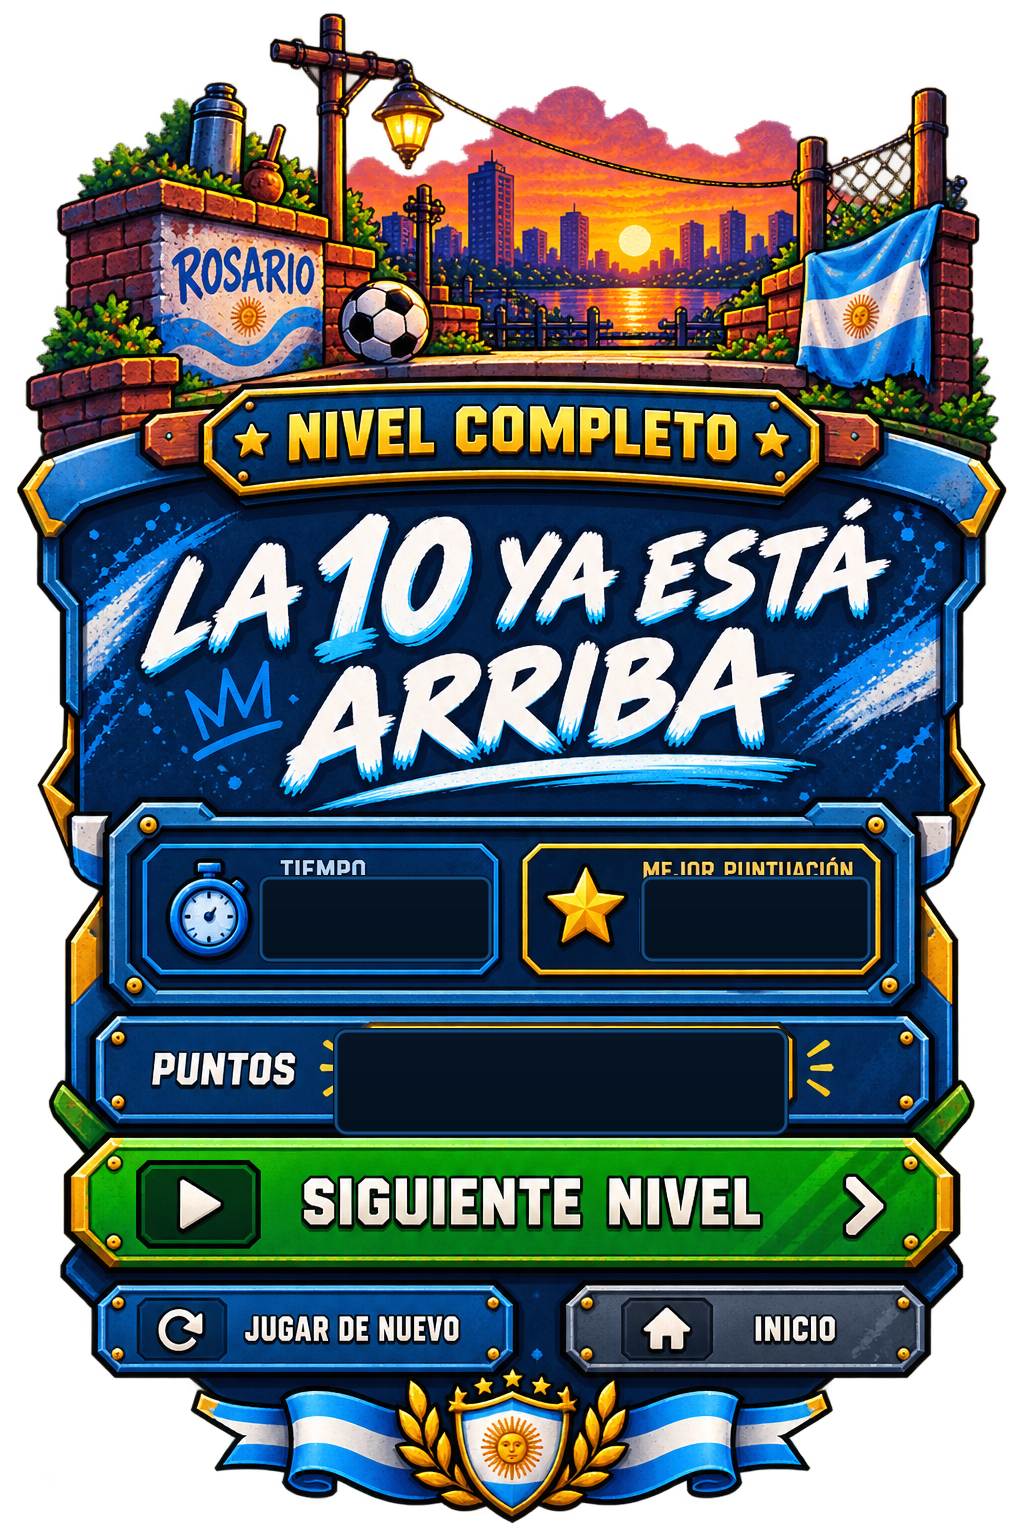
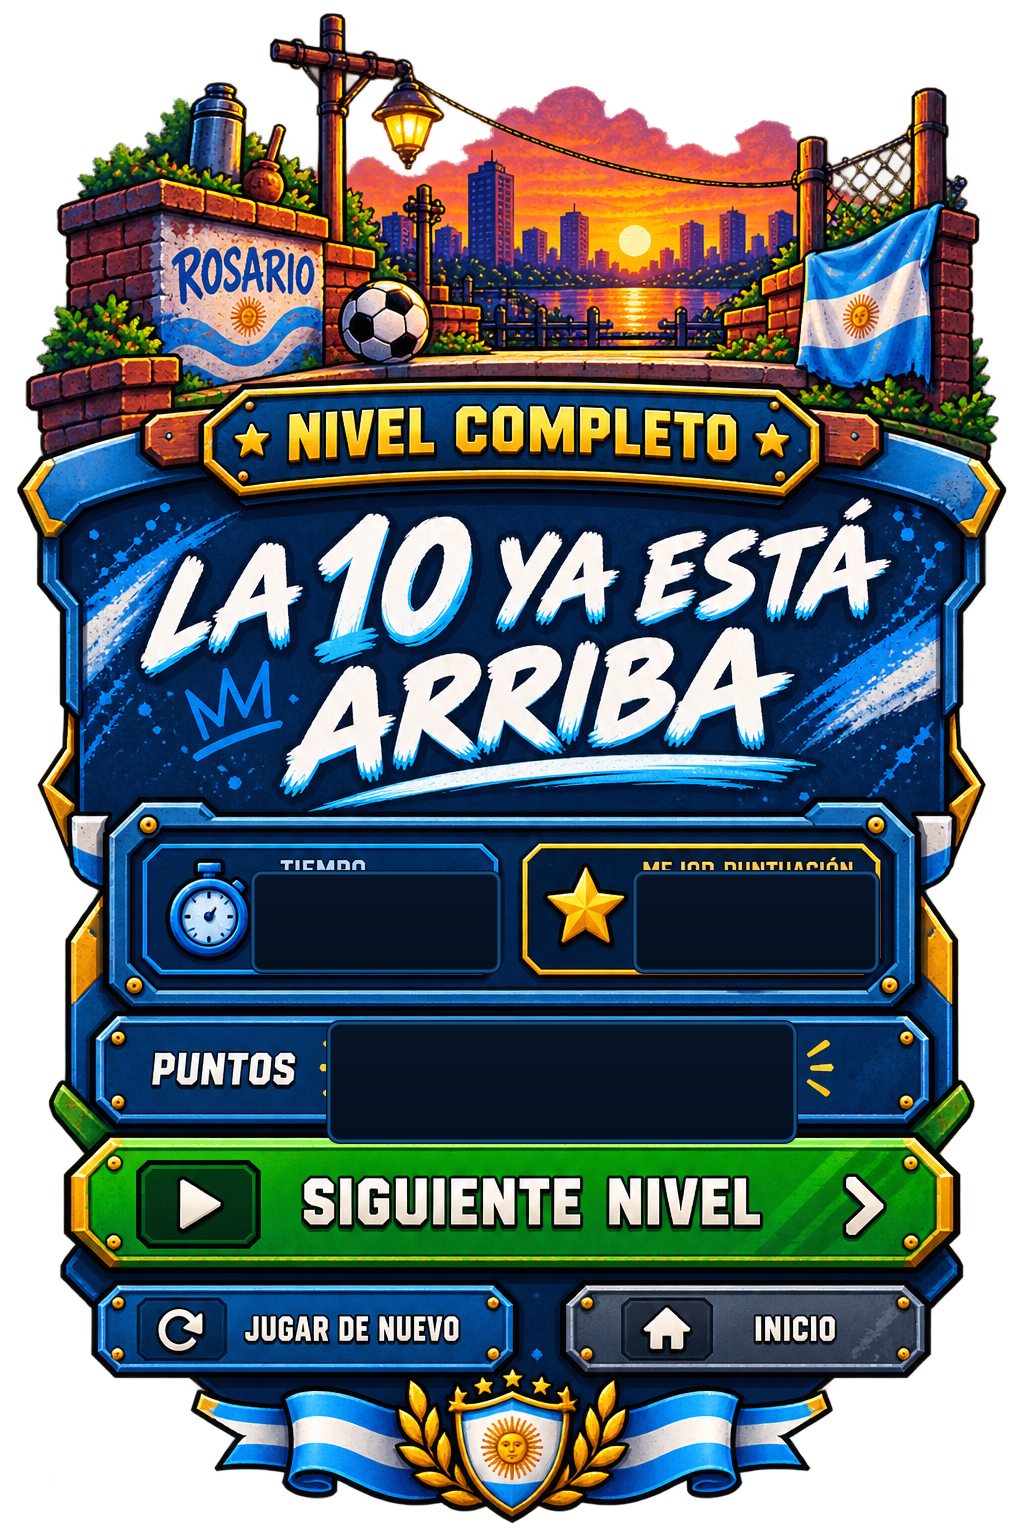
v3.4.7 fix bug

Changed region(s): [[0.2188, 0.5625, 0.875, 0.75]]

diff --git a/entities/Player.ts b/entities/Player.ts
@@ -49,10 +49,11 @@ export class Player {
 
   update(dt: number, input: InputSnapshot, platforms: Platform[], ladders: Ladder[], worldWidth: number) {
     const ladder = findUsableLadder(this.rect, ladders);
-    const canGrabLadder = this.grounded || this.state === "climb";
-    const wantsClimb = input.climb !== 0 && !input.jump && canGrabLadder && ladder;
+    const canJump = this.grounded || this.state === "climb";
+    const startsJump = input.jump && canJump;
+    const wantsClimb = input.climb !== 0 && Boolean(ladder) && !startsJump;
 
-    if (wantsClimb) {
+    if (wantsClimb && ladder) {
       this.state = "climb";
       this.vx = 0;
       this.vy = input.climb * CLIMB_SPEED;
@@ -73,7 +74,7 @@ export class Player {
       this.facing = input.move;
     }
 
-    if (input.jump && (this.grounded || this.state === "climb")) {
+    if (startsJump) {
       this.vy = -JUMP_SPEED;
       this.grounded = false;
       this.state = "jump";
@@ -116,7 +117,7 @@ export class Player {
   }
 
   canUseLadder(ladders: Ladder[]) {
-    return (this.grounded || this.state === "climb") && Boolean(findUsableLadder(this.rect, ladders));
+    return Boolean(findUsableLadder(this.rect, ladders));
   }
 
   draw(ctx: CanvasRenderingContext2D, isProtected = false, sprites?: SpriteManager, time = 0, spriteSheet = "messi") {

diff --git a/app/donkey-messi/page.tsx b/app/donkey-messi/page.tsx
@@ -200,7 +200,7 @@ export default function DonkeyMessiPage() {
             <div className={`coverShade ${showTraining || showLevelSelect ? "isTraining" : "isTitle"}`} />
             {!showTraining && !showLevelSelect ? (
               <div className="coverHotspots" aria-label="Menu principal">
-                <p className="buildStamp">Mobile v3.4.6</p>
+                <p className="buildStamp">Mobile v3.4.7</p>
                 <button className="coverHotspot coverHotspotPlay" type="button" onClick={openLevelSelect}>
                   <span className="srOnly">Seleccionar nivel</span>
                 </button>

diff --git a/ui/Victory.tsx b/ui/Victory.tsx
@@ -10,7 +10,12 @@ type VictoryProps = {
 };
 
 export function Victory({ snapshot, onRestart, onMenu, onNextLevel, canNextLevel }: VictoryProps) {
-  const imageSrc = snapshot.levelIndex === 0 ? "/assets/ui/final-level-0-clean.png" : "/assets/ui/final-level-1-clean.png";
+  const victoryImages = [
+    "/assets/ui/final-level-0-clean.png",
+    "/assets/ui/final-level-1-clean.png",
+    "/assets/ui/final-level-2-clean.png",
+  ];
+  const imageSrc = victoryImages[snapshot.levelIndex] ?? "/assets/ui/final-level-1-clean.png";
   const bestScore = Math.max(snapshot.highScore, snapshot.score);
 
   return (

diff --git a/game/Game.ts b/game/Game.ts
@@ -878,7 +878,7 @@ function platformSurfaceOffset(sheet: string, frame: number) {
     return 0;
   }
 
-  const offsets = [10, 8, 0, 9, 8, 0, 6, 0, 0];
+  const offsets = [18, 20, 3, 18, 16, 14, 19, 4, 4];
   return offsets[frame] ?? 0;
 }
 

diff --git a/README.md b/README.md
@@ -688,9 +688,25 @@ Estado: en desarrollo validado.
 - QA automatico con `npm run qa:v3.4.6`.
 - QA documentado en `docs/QA_V346.md`.
 
+### V3.4.7
+
+Estado: en desarrollo validado.
+
+- Recuperado el agarre de escalera en el aire:
+  - Messi puede saltar, cruzar una escalera y agarrarse con arriba/abajo.
+  - Los botones de subir/bajar vuelven a activarse al pasar por una escalera aunque Messi este airborne.
+  - El salto inicial sigue teniendo prioridad para que la escalera no robe el despegue.
+- Recalibradas las superficies visuales del Tutorial para alinear mejor los sprites decorativos con la hitbox.
+- Cartel de victoria del Nivel 2 agregado:
+  - Fuente: `public/assets/ui/final-level-2.png`.
+  - Runtime limpio: `public/assets/ui/final-level-2-clean.png`.
+- `Victory` elige cartel por indice de nivel y cae a Nivel 1 si falta un asset futuro.
+- QA automatico acotado con `npm run qa:v3.4.7`.
+- QA documentado en `docs/QA_V347.md`.
+
 ## Siguiente Paso
 
-Playtest manual de V3.4.6 en telefono real. Confirmar especialmente pinches, power-ups de invencibilidad, ritmo de pelotas y ajuste visual del Tutorial con las pruebas nuevas.
+Playtest manual de V3.4.7 en telefono real. Confirmar especialmente salto hacia escalera, agarre en aire y alineacion de Messi sobre plataformas del Tutorial.
 
 ## Roadmap
 

diff --git a/docs/ROADMAP_FASE_2_V3.md b/docs/ROADMAP_FASE_2_V3.md
@@ -368,6 +368,24 @@ Criterio de cierre:
 - No hay cuadrados visibles para pinches, escudo o companion.
 - El nivel queda listo para playtest y balance de dificultad.
 
+### V3.4.7 - Recuperacion De Escalera Aerea
+
+Objetivo: corregir el retroceso de jugabilidad donde Messi ya no podia enganchar escaleras durante un salto.
+
+Alcance:
+
+- Permitir que los controles de escalera aparezcan al cruzar una escalera en el aire.
+- Permitir agarre intencional con arriba/abajo durante el salto.
+- Mantener prioridad del salto al despegar para que la escalera no lo corte.
+- Recalibrar offsets de plataformas del Tutorial.
+- Agregar cartel de victoria del Nivel 2.
+
+Criterio de cierre:
+
+- Saltar hacia una escalera y agarrarse vuelve a sentirse como al inicio.
+- La escalera no actua como pared ni como iman involuntario.
+- Messi pisa visualmente las plataformas del Tutorial.
+
 ## V3.5 - Rescate Opcional Simple
 
 Objetivo: sumar una meta secundaria sin crear complejidad narrativa.

diff --git a/docs/QA_V347.md b/docs/QA_V347.md
@@ -1,0 +1,25 @@
+# QA V3.4.7
+
+## Alcance
+
+- Recuperar agarre de escalera en el aire.
+- Mantener prioridad de salto al despegar.
+- Recalibrar superficies del Tutorial para que Messi no flote ni quede enterrado.
+- Agregar cartel limpio de victoria para Nivel 2.
+
+## Comandos
+
+```bash
+npm run assets:victory-ui
+npm run qa:v3.4.7
+npm run typecheck
+npm run lint
+```
+
+## Criterios
+
+- Si Messi salta y atraviesa una escalera, los botones de subir/bajar se activan.
+- Presionar arriba/abajo en el aire engancha la escalera.
+- El salto desde piso o escalera no queda cancelado por tocar una escalera.
+- El Tutorial usa offsets por frame para alinear la superficie visual.
+- La victoria de Nivel 2 usa `final-level-2-clean.png`.
